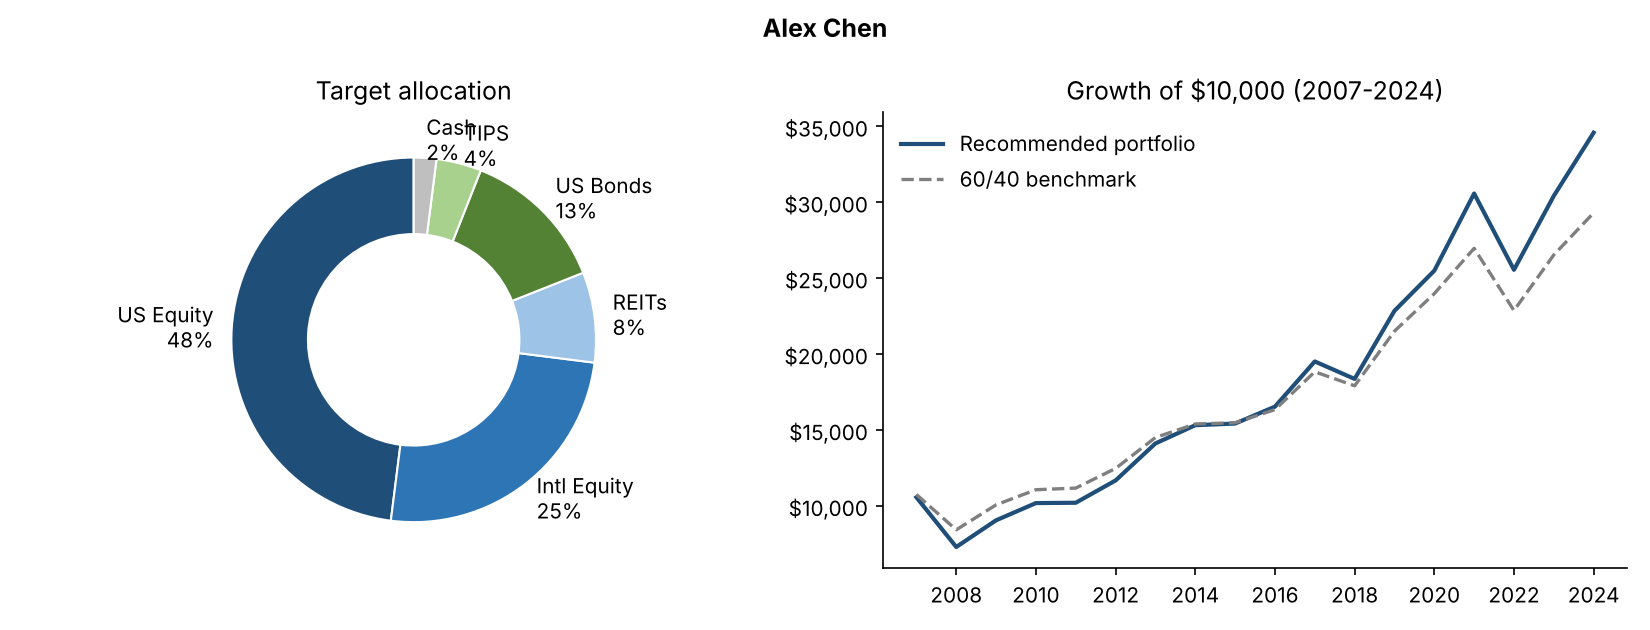
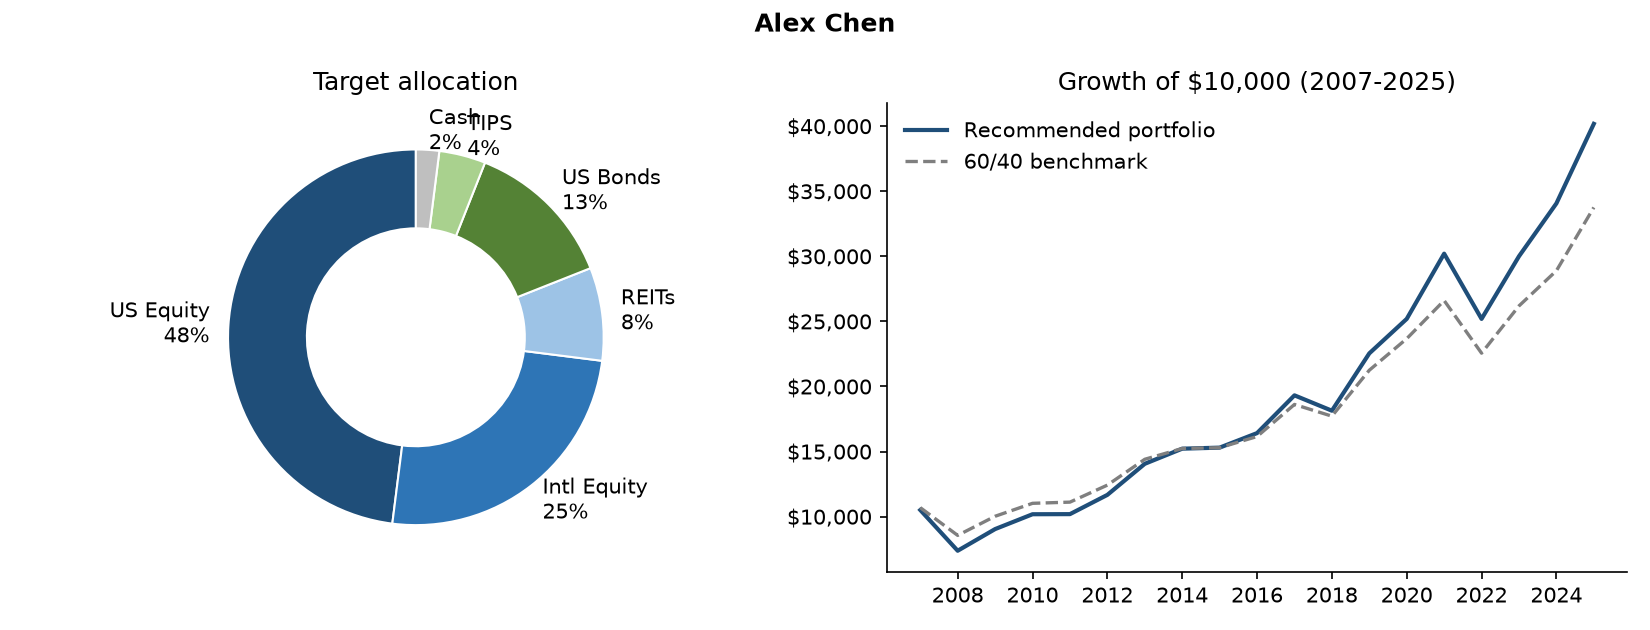
Refresh data from Yahoo Finance

diff --git a/output/harold_baker_IPS.md b/output/harold_baker_IPS.md
@@ -21,7 +21,7 @@
 - Tolerance (2.5) is below capacity (5.9); score pulled toward tolerance so the client can stick with the plan.
 - Goal 'income' adjusts equity by -5%.
 - Cash set to 10% to cover near-term withdrawals.
-- WARNING: worst historical year is -13.0%, beyond the client's 10% limit, and cutting equity further does not fix it (the loss comes from bonds, as in 2022). Discuss expectations with the client or consider a larger cash or short-duration bucket.
+- WARNING: worst historical year is -13.2%, beyond the client's 10% limit, and cutting equity further does not fix it (the loss comes from bonds, as in 2022). Discuss expectations with the client or consider a larger cash or short-duration bucket.
 
 ## 3. Strategic asset allocation
 | Asset class | Target | Range | Benchmark index |
@@ -40,22 +40,22 @@
 - Fund withdrawals from overweight classes and the cash bucket before selling underweights.
 - Reassess the plan after any major life event (job change, inheritance, health, retirement date).
 
-## 5. Historical stress tests (2007-2024)
+## 5. Historical stress tests (2007-2025)
 | Scenario | Portfolio | 60/40 benchmark | Dollar impact |
 |---|---|---|---|
-| 2008 Global Financial Crisis | -11.7% | -21.7% | -$164,304 |
-| 2020 calendar year (hides the March crash) | 8.9% | 11.5% | $124,642 |
-| 2022 Rate shock (stocks and bonds down) | -13.0% | -15.2% | -$182,602 |
-| 2007-2009 Crisis cycle | 7.3% | 0.6% | $101,874 |
-| Full period | 136.6% | 193.0% | $1,912,079 |
+| 2008 Global Financial Crisis | -9.8% | -19.9% | -$137,515 |
+| 2020 calendar year (hides the March crash) | 9.0% | 11.4% | $125,762 |
+| 2022 Rate shock (stocks and bonds down) | -13.2% | -15.2% | -$185,213 |
+| 2007-2009 Crisis cycle | 7.3% | 0.2% | $102,609 |
+| Full period | 160.3% | 237.5% | $2,243,513 |
 
 | Metric (full period) | Portfolio | 60/40 benchmark |
 |---|---|---|
-| CAGR | 4.9% | 6.2% |
-| Volatility | 7.6% | 11.4% |
-| Worst year | -13.0% | -21.7% |
-| Max drawdown | -13.0% | -21.7% |
-| Sharpe ratio | 0.49 | 0.47 |
+| CAGR | 5.2% | 6.6% |
+| Volatility | 7.2% | 10.9% |
+| Worst year | -13.2% | -19.9% |
+| Max drawdown | -13.2% | -19.9% |
+| Sharpe ratio | 0.53 | 0.52 |
 
 ## 6. Important limitations
 - Backtests use **annual** returns, so intra-year drawdowns (e.g. March 2020) are understated.

diff --git a/output/maria_and_tom_rivera_IPS.md b/output/maria_and_tom_rivera_IPS.md
@@ -38,22 +38,22 @@
 - Fund withdrawals from overweight classes and the cash bucket before selling underweights.
 - Reassess the plan after any major life event (job change, inheritance, health, retirement date).
 
-## 5. Historical stress tests (2007-2024)
+## 5. Historical stress tests (2007-2025)
 | Scenario | Portfolio | 60/40 benchmark | Dollar impact |
 |---|---|---|---|
-| 2008 Global Financial Crisis | -20.1% | -21.7% | -$170,722 |
-| 2020 calendar year (hides the March crash) | 10.1% | 11.5% | $86,011 |
-| 2022 Rate shock (stocks and bonds down) | -14.8% | -15.2% | -$125,426 |
-| 2007-2009 Crisis cycle | 0.6% | 0.6% | $4,850 |
-| Full period | 184.2% | 193.0% | $1,565,333 |
+| 2008 Global Financial Crisis | -18.5% | -19.9% | -$156,850 |
+| 2020 calendar year (hides the March crash) | 10.2% | 11.4% | $87,121 |
+| 2022 Rate shock (stocks and bonds down) | -14.9% | -15.2% | -$126,853 |
+| 2007-2009 Crisis cycle | 0.6% | 0.2% | $4,985 |
+| Full period | 220.2% | 237.5% | $1,872,107 |
 
 | Metric (full period) | Portfolio | 60/40 benchmark |
 |---|---|---|
-| CAGR | 6.0% | 6.2% |
-| Volatility | 10.5% | 11.4% |
-| Worst year | -20.1% | -21.7% |
-| Max drawdown | -20.1% | -21.7% |
-| Sharpe ratio | 0.48 | 0.47 |
+| CAGR | 6.3% | 6.6% |
+| Volatility | 10.1% | 10.9% |
+| Worst year | -18.5% | -19.9% |
+| Max drawdown | -18.5% | -19.9% |
+| Sharpe ratio | 0.52 | 0.52 |
 
 ## 6. Important limitations
 - Backtests use **annual** returns, so intra-year drawdowns (e.g. March 2020) are understated.

diff --git a/output/alex_chen_IPS.md b/output/alex_chen_IPS.md
@@ -38,22 +38,22 @@
 - Fund withdrawals from overweight classes and the cash bucket before selling underweights.
 - Reassess the plan after any major life event (job change, inheritance, health, retirement date).
 
-## 5. Historical stress tests (2007-2024)
+## 5. Historical stress tests (2007-2025)
 | Scenario | Portfolio | 60/40 benchmark | Dollar impact |
 |---|---|---|---|
-| 2008 Global Financial Crisis | -31.0% | -21.7% | -$13,957 |
-| 2020 calendar year (hides the March crash) | 11.6% | 11.5% | $5,207 |
-| 2022 Rate shock (stocks and bonds down) | -16.4% | -15.2% | -$7,397 |
-| 2007-2009 Crisis cycle | -9.5% | 0.6% | -$4,287 |
-| Full period | 245.8% | 193.0% | $110,610 |
+| 2008 Global Financial Crisis | -29.8% | -19.9% | -$13,407 |
+| 2020 calendar year (hides the March crash) | 11.8% | 11.4% | $5,288 |
+| 2022 Rate shock (stocks and bonds down) | -16.6% | -15.2% | -$7,465 |
+| 2007-2009 Crisis cycle | -9.6% | 0.2% | -$4,319 |
+| Full period | 301.8% | 237.5% | $135,788 |
 
 | Metric (full period) | Portfolio | 60/40 benchmark |
 |---|---|---|
-| CAGR | 7.1% | 6.2% |
-| Volatility | 14.6% | 11.4% |
-| Worst year | -31.0% | -21.7% |
-| Max drawdown | -31.0% | -21.7% |
-| Sharpe ratio | 0.47 | 0.47 |
+| CAGR | 7.6% | 6.6% |
+| Volatility | 14.0% | 10.9% |
+| Worst year | -29.8% | -19.9% |
+| Max drawdown | -29.8% | -19.9% |
+| Sharpe ratio | 0.49 | 0.52 |
 
 ## 6. Important limitations
 - Backtests use **annual** returns, so intra-year drawdowns (e.g. March 2020) are understated.
